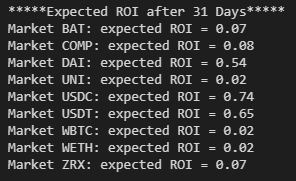
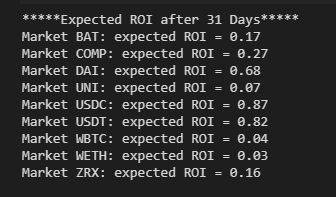
fixed comp apys

diff --git a/utils.py b/utils.py
@@ -26,38 +26,38 @@ def reindex(datasets:list):
         dataset.reset_index(drop=True,inplace=True)
     return datasets
 
-def averageCOMP(comp:pd.Series,blocks:pd.Series):
-    avgCOMP = []
-    if len(blocks) < len(comp):
-        if len(comp)-len(blocks) > 1:
-            del comp[0:len(comp)-len(blocks)]
-        else:
-            del comp[0]
-        comp.reset_index(drop=True,inplace=True)
-    elif len(blocks) > len(comp):
-        if len(blocks)-len(comp) > 1:
-            del blocks[0:len(blocks)-len(comp)]
-        else:
-            del blocks[0]
-    blocks.reset_index(drop=True,inplace=True)
-    for index, val in blocks.iteritems():
-        x = comp[index]*val/comp_users #comp * blocks / users
-        if x > 100000000:
-            x = 0
-        else:
-            avgCOMP.append(comp[index]/val)
-    return avgCOMP
+# def averageCOMP(comp:pd.Series,blocks:pd.Series):
+#     avgCOMP = []
+#     if len(blocks) < len(comp):
+#         if len(comp)-len(blocks) > 1:
+#             del comp[0:len(comp)-len(blocks)]
+#         else:
+#             del comp[0]
+#         comp.reset_index(drop=True,inplace=True)
+#     elif len(blocks) > len(comp):
+#         if len(blocks)-len(comp) > 1:
+#             del blocks[0:len(blocks)-len(comp)]
+#         else:
+#             del blocks[0]
+#     blocks.reset_index(drop=True,inplace=True)
+#     for index, val in blocks.iteritems():
+#         x = comp[index]*val/comp_users #comp * blocks / users
+#         if x > 100000000:
+#             x = 0
+#         else:
+#             avgCOMP.append(comp[index]/val)
+#     return avgCOMP
 
-def cOMPS(list_interests,list_txs):
-    i=0
-    tmp = []
-    avgcomp = []
-    while i < len(list_txs):
-        tmp.append(averageCOMP(list_interests[i]['COMP'],list_txs[i]['BLOCKS']))
-        avgcomp.append((tmp))
-        tmp = []
-        i+=1
-    return avgcomp
+# def cOMPS(list_interests,list_txs):
+#     i=0
+#     tmp = []
+#     avgcomp = []
+#     while i < len(list_txs):
+#         tmp.append(averageCOMP(list_interests[i]['COMP'],list_txs[i]['BLOCKS']))
+#         avgcomp.append((tmp))
+#         tmp = []
+#         i+=1
+#     return avgcomp
 
 # def plotone(title:str,series:pd.Series):
 #     plt.plot(np.arange(0,len(series),1),series)

diff --git a/calculator.py b/calculator.py
@@ -19,19 +19,12 @@ del list_txs[8]
 list_txs.insert(6,list_txs[3])
 del list_txs[3]
 
-avgcomps = utils.cOMPS(list_interests,list_txs)
-
 symbols = []
-for i in list_interests:
-    symbols.append(i['SYMBOL'][0])
-    # print(i['SYMBOL'][0])
-    comp_interest = []
-for i in avgcomps:
-    # print('31 Day Average COMP for different markets {:.4f}'.format(utils.np.mean(i)))
-    comp_interest.append(utils.np.mean(i))
+comp_interest = []
 apys = []
 for i in list_interests:
-    # print('31 Day Average APY for different markets {:.4f}'.format(i['APY'].mean()))
+    symbols.append(i['SYMBOL'][0])
+    comp_interest.append(i['COMP'].mean())
     apys.append(i['APY'].mean())
 ####
 
@@ -47,7 +40,7 @@ def loop():
     market = int(input('Choose your market by entering the associated number:'))
     time = int(input('Enter the amount of days you would like to leave your supply:'))
 
-    x = collateral * apys[market] * time/365 + time * comp_interest[market]
+    x = collateral * time/365 * (apys[market] + comp_interest[market])
     print('You can expect to see an ROI of {:.2f}'.format(x/collateral*100))
 
 while(1):
